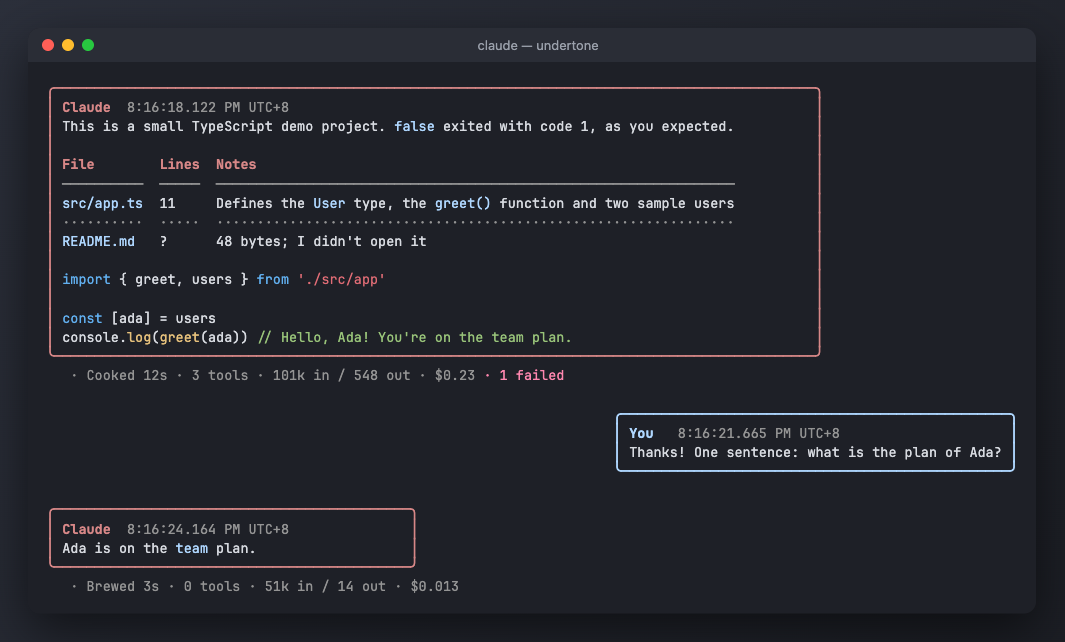
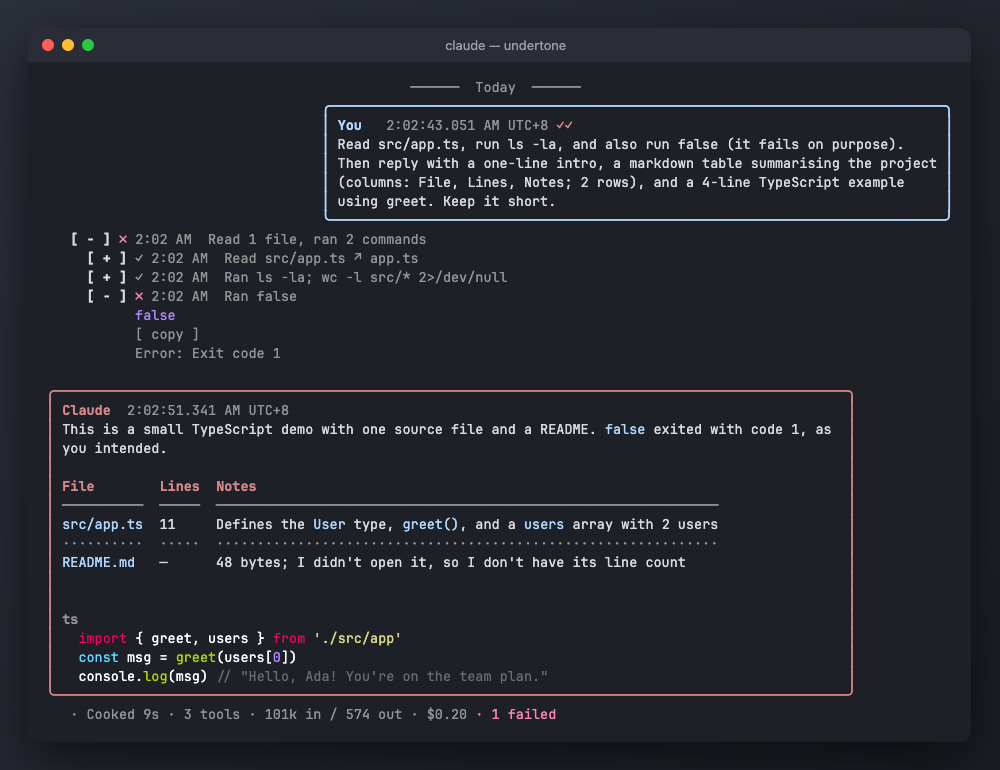
docs: fresh screenshots of every major feature
Re-captured from a scripted demo session on this build: the conversation,
tool rows and tables, the dracula and messenger themes and the theme
gallery, plus new shots for rich text, code, charts, flowcharts, sequence
diagrams, figures, math and footnotes, agents and /undertone-wrapped. The
README shows each in its section.

diff --git a/README.md b/README.md
@@ -84,6 +84,8 @@ table.
 
 Claude's replies draw block by block, in the theme's colours:
 
+![Rich text: a boxed H1, an H2 over a heavy rule, a task list with two done items struck through, and a tip box](docs/rich-text.png)
+
 - **Headings**: H1 in a box, H2 over a heavy rule, H3 bold in an accent colour. *Heading style*: `banner`, `bold` or `underline`.
 - **Lists** keep their numbers and nest with `•` `◦` `▪`; **task lists** draw as `[ ]` and `[✓]`, done items dimmed and struck through. *Task list style*: `brackets`, `ticks` (`○` `✓`), `box` (`□` `✓`) or `progress`, which adds a done-count bar.
 - **Quotes** get an accent bar; **GitHub alerts** (`> [!NOTE]`, `[!TIP]`, `[!IMPORTANT]`, `[!WARNING]`, `[!CAUTION]`) draw as coloured boxes with their label.
@@ -91,17 +93,33 @@ Claude's replies draw block by block, in the theme's colours:
 - **Rules** draw across the bubble; lists and quotes get `[ copy list ]` and `[ copy quote ]`.
 - Inline text (bold, italic, code, links) is Claude Code's own, so links stay clickable. *Rich text* off gives Claude Code's drawing back.
 
+![A quote with an accent bar, a TypeScript block under its language header, and a numbered list](docs/code.png)
+
 ### Pictures
 
 When a picture explains better than prose, Claude can draw one, and undertone draws it in the bubble:
 
+<table>
+  <tr>
+    <td><img src="docs/chart.png" alt="A bar chart of signups by month, the tallest bar highlighted"></td>
+    <td><img src="docs/flowchart.png" alt="A flowchart drawn as a tree: Push, Tests pass?, yes to Deploy, no to Fix, which loops back"></td>
+  </tr>
+  <tr>
+    <td><img src="docs/sequence.png" alt="A sequence diagram: You, Claude and Tools as boxes over lifelines, with request and reply arrows"></td>
+    <td><img src="docs/figure.png" alt="A figure: a retry racing a timeout on a time axis, in colour"></td>
+  </tr>
+</table>
+
 - **Charts** from ` ```mermaid ` blocks: `xychart-beta` bar and line series as bars measured to an eighth of a cell, the tallest one highlighted, and `pie` charts as share bars, largest first.
 - **Flowcharts** (`graph LR` / `TD`): a straight chain as boxes joined by arrows, with edge labels; branches and loops as a tree, `↺` where it loops back.
+- **Sequence diagrams**: a box per participant over its lifeline, each message an arrow with its text above, replies dashed, notes and `loop`/`alt` labels as dim lines.
 - **Figures**: a ` ```figure ` block draws exactly as written, with `{accent:…}`, `{warn:…}`, `{ok:…}`, `{note:…}`, `{dim:…}` and `{strong:…}` colouring a run. A line that would not draw as written (too wide, a tab, broken markup) leaves it as code, with a note saying why.
 - `[ copy source ]` and `[ copy art ]` on each. Other mermaid kinds, and a block still streaming, stay code.
 - So Claude knows, each prompt you type carries a short note only the model reads (about 130 tokens); *Tell Claude about pictures* turns it off.
 
 ### Math, footnotes and copying
+
+![Inline math as symbols, the quadratic formula, and a footnote under a short rule](docs/math.png)
 
 - **Math**: inline `$E = mc^2$` reads *E = mc²*, and `$\alpha \le \beta$` reads *α ≤ β* (a price like `$5` stays as written). Display math, `$$…$$` or a ` ```math ` block, reads as text with symbols, `(-b ± √(b²-4ac))/2a`, or as a typeset picture where the terminal draws pictures and [`ratex-render`](https://github.com/erweixin/RaTeX/releases) is on your `PATH` (rename the release's `render` binary). `[ copy latex ]` copies the source.
 - **Footnotes**: `[^1]` marks draw as superscripts, `¹`, with the notes under a short rule at the end of the reply.
@@ -118,12 +136,16 @@ When a picture explains better than prose, Claude can draw one, and undertone dr
 
 ### The room
 
+![Claude handing work to an Explore agent, the agent's answer as its own bubble, a finished-task chip and the Agents strip above the prompt](docs/agents.png)
+
 - **System cards**: every slash command's output in a card: the command in Claude's colour, `[ copy ]` and the time; a red frame and `✗` when it failed.
 - **Group chat**: a message from an agent, teammate or another session is its own bubble with its name and colour; a finished background task is a chip, `✓ Explore finished · 9s`.
 - **Agents**: Claude handing work to an agent reads `↳ Claude → Explore: find the config`, with `◌ working` or `↗ in background`, then `✓ done`; a foreground agent's report is its own bubble, folded when long, and a background agent's arrives as its own message. Above the prompt, `Agents ● Explore · find the config ○ planner (done)`, and the turn summary counts them apart: `· 5 tools · 2 agents (31 tools)`.
 - **Claude asks**: Claude's multiple-choice questions sit under a `Claude asks` header, and the call's row says what was asked.
 - **Welcome**: `✻ Good morning · 3rd session today · last one ended 2h ago` when a session starts (with your name, if you set *Your label*).
 - **Footer pills** for mode labels, and a quieter run-in-background hint: `↧ ctrl+b · background` (or hidden).
+
+![/undertone-wrapped in a system card: prompts, tool calls, top tools, busiest hour, longest turn](docs/wrapped.png)
 
 ### Show-off
 
@@ -237,7 +259,7 @@ Don't also install the published copy on the same machine, or both will draw eve
 
 ```bash
 claude plugin validate .   # what the engine will load, and what it would refuse
-claude plugin test .       # 257 tests: every feature, every theme in every style, tables at 4 widths
+claude plugin test .       # 260 tests: every feature, every theme in every style, tables at 4 widths
 ```
 
 CI runs `validate` and `test` on every push and pull request, and weekly against the latest Claude Code. The type check needs the engine types Claude Code
